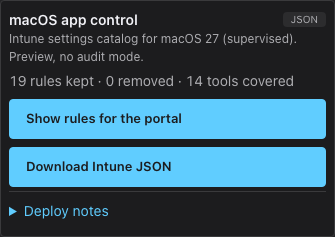
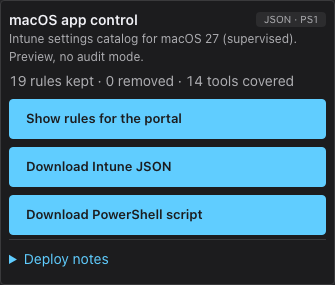
feat: Download PowerShell script on the macOS card
buildPowerShellScript wraps the Intune JSON in a here-string with the
Graph SDK install-when-missing, import, sign-in and POST, so one file
deploys the policy. Guide option 3 and README describe it; the card
screenshot shows the third button. Script parsed with pwsh, 19 rules
embedded.

diff --git a/help-macos.html b/help-macos.html
@@ -65,7 +65,7 @@
         <ul>
           <li><strong>Option 1, Graph Explorer (recommended):</strong> download <strong>Intune JSON</strong> from the macOS card and post it once. The policy appears in Intune with every entry filled in. Nothing to retype, no typos, and a changed list is a new download.</li>
           <li><strong>Option 2, Intune portal:</strong> create the settings catalog profile by hand and type every Team ID and Signing ID from <strong>Show rules for the portal</strong>. Fine for a short list; with the full list it is many entries and one mistake invalidates the whole policy on the Mac.</li>
-          <li><strong>Option 3, PowerShell:</strong> the same Graph request as option 1, sent with the Microsoft Graph PowerShell SDK. A few lines, repeatable, and the natural choice when you roll this out to more than one tenant.</li>
+          <li><strong>Option 3, PowerShell:</strong> download one script with the policy built in and run it. The same Graph request as option 1 without Graph Explorer, and the natural choice when you roll this out to more than one tenant.</li>
         </ul>
         <p>All three routes end in the same policy. Assign and verify it the same way (steps 6 and 7).</p>
       </section>
@@ -73,7 +73,7 @@
         <h2 id="graph-title">3. Option 1: Graph Explorer</h2>
         <ol>
           <li>In the macOS card, select <strong>Download Intune JSON</strong>. The file <code>RMM_Denied_Binaries_Intune.json</code> is the complete policy: name, platform, and one Denied Binaries entry per rule left after your exclusions.
-            <figure><a href="./MacScreens/MacCard.png" target="_blank" rel="noopener noreferrer" aria-label="Open macOS card screenshot"><img src="./MacScreens/MacCard.png" width="335" height="237" loading="lazy" alt="The macOS app control card: rules kept, Show rules for the portal, Download Intune JSON."></a></figure></li>
+            <figure><a href="./MacScreens/MacCard.png" target="_blank" rel="noopener noreferrer" aria-label="Open macOS card screenshot"><img src="./MacScreens/MacCard.png" width="335" height="285" loading="lazy" alt="The macOS app control card: rules kept, Show rules for the portal, Download Intune JSON."></a></figure></li>
           <li>Open <a href="https://developer.microsoft.com/graph/graph-explorer" target="_blank" rel="noopener noreferrer">Graph Explorer <span aria-hidden="true">↗</span></a> and sign in with the account icon at the top right, using your Intune administrator account. Without signing in you are on Microsoft's sample tenant.</li>
           <li>Set the method to <strong>POST</strong>, the version to <strong>beta</strong> and the URL to <code>https://graph.microsoft.com/beta/deviceManagement/configurationPolicies</code>. Graph Explorer now knows which permission this request needs.</li>
           <li>Open the <strong>Modify permissions</strong> tab. It lists <code>DeviceManagementConfiguration.ReadWrite.All</code> for this request. If its status is not consented yet, select <strong>Consent</strong>; in most tenants this is already done.
@@ -108,18 +108,21 @@
       <section id="powershell" class="help-step" aria-labelledby="powershell-title">
         <h2 id="powershell-title">5. Option 3: PowerShell</h2>
         <ol>
-          <li>In the macOS card, select <strong>Download Intune JSON</strong> and note where <code>RMM_Denied_Binaries_Intune.json</code> lands.</li>
-          <li>Open PowerShell in the folder with the downloaded file and run the lines below. They install the Microsoft Graph PowerShell SDK only when it is missing, sign you in with your Intune administrator account, and ask for consent to <code>DeviceManagementConfiguration.ReadWrite.All</code> if it has not been granted yet.</li>
+          <li>In the macOS card, select <strong>Download PowerShell script</strong>. The file <code>RMM_Denied_Binaries_Intune.ps1</code> contains the whole policy, so nothing else needs to be downloaded or kept next to it.</li>
+          <li>Open PowerShell and run the file. It installs the Microsoft Graph PowerShell SDK only when it is missing, signs you in with your Intune administrator account, asks for consent to <code>DeviceManagementConfiguration.ReadWrite.All</code> if it has not been granted yet, posts the policy and prints its id.</li>
         </ol>
+        <p>This is what the script does, apart from the embedded JSON:</p>
         <pre class="kql-code"><code>if (-not (Get-Module -ListAvailable -Name Microsoft.Graph.Authentication)) {
     Install-Module Microsoft.Graph.Authentication -Scope CurrentUser
 }
 Import-Module Microsoft.Graph.Authentication
-Connect-MgGraph -Scopes DeviceManagementConfiguration.ReadWrite.All
-$body = Get-Content .\RMM_Denied_Binaries_Intune.json -Raw
-Invoke-MgGraphRequest -Method POST -Uri "https://graph.microsoft.com/beta/deviceManagement/configurationPolicies" -Body $body -ContentType "application/json"</code></pre>
+Connect-MgGraph -Scopes DeviceManagementConfiguration.ReadWrite.All -NoWelcome
+$body = @'
+    ... the same JSON as Download Intune JSON ...
+'@
+$policy = Invoke-MgGraphRequest -Method POST -Uri "https://graph.microsoft.com/beta/deviceManagement/configurationPolicies" -Body $body -ContentType "application/json"</code></pre>
         <p>The response is the new policy with its <code>id</code>. In Intune the policy appears under <strong>Devices</strong> → <strong>macOS</strong> → <strong>Configuration</strong>; as with option 1, the overview shows an empty <strong>Allowed</strong> and <strong>Edit</strong> shows every entry. It is not assigned yet: continue with step 6.</p>
-        <p>To change the list later, exclude or include tools on the RMM page, download again and run the same lines again. Then assign the new policy and delete the old one, so a Mac never receives two deny lists.</p>
+        <p>To change the list later, exclude or include tools on the RMM page, download the script again and run it again. Then assign the new policy and delete the old one, so a Mac never receives two deny lists.</p>
       </section>
       <section id="assign" class="help-step" aria-labelledby="assign-title">
         <h2 id="assign-title">6. Assign</h2>

diff --git a/app.js b/app.js
@@ -1,7 +1,7 @@
 import { parsePolicy, excludedRuleIds, exportPolicy } from "./policy.js";
 import { loadIocs, filterIocs, exportIocBatches, serializeCsv, iocHeaders } from "./ioc.js";
 import { buildNetworkDiscoveryKql, highlightKql } from "./kql.js";
-import { loadMacProducts, filterMacRules, buildIntunePolicy, reportMissingUrl } from "./macos.js";
+import { loadMacProducts, filterMacRules, buildIntunePolicy, buildPowerShellScript, reportMissingUrl } from "./macos.js";
 
 const byId = id => document.getElementById(id);
 const excluded = new Set();
@@ -381,7 +381,7 @@ function updateMacs() {
   byId("mac-card").hidden = !enabled;
   byId("mac-status").hidden = !enabled || macError || !macData;
   // Without data the buttons would only throw, so they stay disabled until the rules are in.
-  for (const id of ["mac-rules-open", "mac-download-intune"]) byId(id).disabled = !ready;
+  for (const id of ["mac-rules-open", "mac-download-intune", "mac-download-ps"]) byId(id).disabled = !ready;
   for (const entry of tools) {
     const covered = entry.macRules.length > 0;
     entry.macCount.hidden = !enabled || !macData || covered || !excluded.has(entry.tool.name);
@@ -396,7 +396,7 @@ function updateMacs() {
   const known = new Set(policy.tools.map(tool => tool.name));
   const macOnly = macData.tools.filter(tool => !known.has(tool.name)).map(tool => tool.name);
   byId("mac-status").textContent = `${retained.length} rules kept · ${macData.rules.length - retained.length} removed · ${macData.tools.length} tools covered${macOnly.length ? ` · macOS-only: ${macOnly.join(", ")}` : ""}`;
-  for (const id of ["mac-rules-open", "mac-download-intune"]) byId(id).disabled = !retained.length;
+  for (const id of ["mac-rules-open", "mac-download-intune", "mac-download-ps"]) byId(id).disabled = !retained.length;
 }
 
 async function enableMacs() {
@@ -421,14 +421,17 @@ async function enableMacs() {
 }
 
 byId("link-macos")?.addEventListener("change", enableMacs);
-byId("mac-download-intune")?.addEventListener("click", () => {
-  try {
-    saveFile(buildIntunePolicy(macRetained(), macData.version), `RMM_Denied_Binaries_Intune${excluded.size ? "_custom" : ""}.json`, "application/json;charset=utf-8");
-    byId("mac-error").hidden = true;
-  } catch (error) {
-    showMacError(error);
-  }
-});
+const macDownloads = { "mac-download-intune": [buildIntunePolicy, "json", "application/json;charset=utf-8"], "mac-download-ps": [buildPowerShellScript, "ps1", "text/plain;charset=utf-8"] };
+for (const [id, [build, extension, type]] of Object.entries(macDownloads)) {
+  byId(id)?.addEventListener("click", () => {
+    try {
+      saveFile(build(macRetained(), macData.version), `RMM_Denied_Binaries_Intune${excluded.size ? "_custom" : ""}.${extension}`, type);
+      byId("mac-error").hidden = true;
+    } catch (error) {
+      showMacError(error);
+    }
+  });
+}
 
 // A copy button that shows what happened: Copied, or Copy failed when the clipboard is unavailable.
 async function copyWith(button, text, restore) {

diff --git a/index.html b/index.html
@@ -108,13 +108,14 @@
               </div>
             </section>
             <section id="mac-card" class="export-card" aria-labelledby="mac-export-title" hidden>
-              <div class="export-card-heading"><h3 id="mac-export-title">macOS app control</h3><span class="file-badge">JSON</span></div>
+              <div class="export-card-heading"><h3 id="mac-export-title">macOS app control</h3><span class="file-badge">JSON · PS1</span></div>
               <p class="output-description">Intune settings catalog for macOS 27 (supervised). Preview, no audit mode.</p>
               <p id="mac-status" class="export-status" role="status" aria-live="polite" aria-atomic="true" hidden></p>
               <div id="mac-error" class="error" role="alert" hidden></div>
               <button id="mac-rules-open" class="primary" type="button">Show rules for the portal</button>
               <button id="mac-download-intune" class="primary mac-secondary" type="button">Download Intune JSON</button>
-              <details class="export-details"><summary>Deploy notes</summary><p>Separate from the WDAC XML: post the JSON once in Graph Explorer, or type the rules into the settings catalog. Only tools with a verified Mac code signature are covered; excluded tools without one are marked. Requires Automated Device Enrollment.</p><p><a href="./help-macos.html">macOS guide</a> · <a id="mac-report-missing" href="https://github.com/Lewis-Barry/RMM-Blocker/issues/new" target="_blank" rel="noopener noreferrer">Report a missing tool <span aria-hidden="true">↗</span></a></p></details>
+              <button id="mac-download-ps" class="primary mac-secondary" type="button">Download PowerShell script</button>
+              <details class="export-details"><summary>Deploy notes</summary><p>Separate from the WDAC XML: run the PowerShell script, post the JSON once in Graph Explorer, or type the rules into the settings catalog. Only tools with a verified Mac code signature are covered; excluded tools without one are marked. Requires Automated Device Enrollment.</p><p><a href="./help-macos.html">macOS guide</a> · <a id="mac-report-missing" href="https://github.com/Lewis-Barry/RMM-Blocker/issues/new" target="_blank" rel="noopener noreferrer">Report a missing tool <span aria-hidden="true">↗</span></a></p></details>
             </section>
             <button id="kql-open" class="kql-open" type="button">See KQL for network discovery</button>
           </div>

diff --git a/tests.js b/tests.js
@@ -1,7 +1,7 @@
 import { parsePolicy, exportPolicy, excludedRuleIds } from "./policy.js";
 import { loadIocs, combineIocs, parseCsv, serializeCsv, iocHeaders, filterIocs, exportIocBatches } from "./ioc.js";
 import { buildNetworkDiscoveryKql, highlightKql } from "./kql.js";
-import { parseMacProducts, filterMacRules, buildIntunePolicy, reportMissingUrl } from "./macos.js";
+import { parseMacProducts, filterMacRules, buildIntunePolicy, buildPowerShellScript, reportMissingUrl } from "./macos.js";
 
 const ns = "urn:schemas-microsoft-com:sipolicy";
 const output = document.getElementById("test-output");
@@ -768,6 +768,18 @@ async function testMacBuilder(policy) {
       assert(JSON.stringify(item.children.map(child => child.settingDefinitionId)) === JSON.stringify(expected), "Child definitions differ");
     }
     expectError(() => buildIntunePolicy([], data.version), "deny nothing");
+  });
+  test("PowerShell script embeds the Intune body and posts it", () => {
+    const script = buildPowerShellScript(data.rules, data.version);
+    const lines = script.split("\r\n");
+    const start = lines.indexOf("$body = @'");
+    const end = lines.indexOf("'@");
+    assert(start > 0 && end > start, "Here-string delimiters missing");
+    assert(lines.slice(start + 1, end).join("\r\n") === buildIntunePolicy(data.rules, data.version), "Embedded body differs from the JSON download");
+    assert(lines.some(line => line.startsWith("Install-Module Microsoft.Graph.Authentication") || line.includes("Install-Module Microsoft.Graph.Authentication")), "No conditional install");
+    assert(lines.includes("Import-Module Microsoft.Graph.Authentication"), "No import");
+    assert(lines.some(line => line.startsWith("$policy = Invoke-MgGraphRequest -Method POST") && line.includes("/beta/deviceManagement/configurationPolicies")), "No POST");
+    expectError(() => buildPowerShellScript([], data.version), "deny nothing");
   });
   test("Missing-data report link is a prefilled GitHub issue", () => {
     const url = new URL(reportMissingUrl("https://github.com/example/repo"));

diff --git a/macos.js b/macos.js
@@ -141,6 +141,27 @@ export function buildIntunePolicy(rules, version) {
   }, null, 2);
 }
 
+// A self-contained PowerShell script: Graph SDK install when missing, sign-in, and the policy body inline.
+export function buildPowerShellScript(rules, version) {
+  const body = buildIntunePolicy(rules, version);
+  return [
+    "#Requires -Version 5.1",
+    `# RMM Guard: creates the "Block RMM tools (macOS)" settings catalog policy in Intune. Deny list v${version}, ${rules.length} rules.`,
+    "# Run with an Intune administrator account. The policy is created unassigned; assign it in Intune afterwards.",
+    "if (-not (Get-Module -ListAvailable -Name Microsoft.Graph.Authentication)) {",
+    "    Install-Module Microsoft.Graph.Authentication -Scope CurrentUser",
+    "}",
+    "Import-Module Microsoft.Graph.Authentication",
+    "Connect-MgGraph -Scopes DeviceManagementConfiguration.ReadWrite.All -NoWelcome",
+    "$body = @'",
+    body,
+    "'@",
+    '$policy = Invoke-MgGraphRequest -Method POST -Uri "https://graph.microsoft.com/beta/deviceManagement/configurationPolicies" -Body $body -ContentType "application/json"',
+    "Write-Host \"Created policy '$($policy.name)' with id $($policy.id). Assign it under Devices > macOS > Configuration.\"",
+    "",
+  ].join("\r\n");
+}
+
 // Pre-filled issue so a visitor can send the codesign output for a tool that has no macOS rules yet.
 export function reportMissingUrl(repository) {
   const title = "macOS rules for <tool name>";

diff --git a/AGENTS.md b/AGENTS.md
@@ -2,5 +2,5 @@
 
 - Don't run `run-tests.mjs` or `tests.html` for simple front-end changes like copy, markup or styles. Run them only when asked, or when logic changes in `app.js`, `policy.js`, `ioc.js`, `kql.js`, `build.mjs` or `products.json`.
 - Whenever adding, changing, or removing IOCs, regenerate the Defender CSVs with `node build.mjs`, verify the generated network discovery KQL includes the updated indicators, and commit all affected outputs. The KQL is built from the bundled IOC CSVs in `kql.js`; update its generation or tests if needed to keep every current IOC represented.
-- `macos.js` (used by `app.js` for the **macOS** platform, on by default next to Windows) builds the macOS deny list from the `macos` blocks in `products.json`. Every rule needs a `teamId`; Team IDs that also sign everyday software (Microsoft, Google, Adobe, 1Password, Cloudflare) need a `signingId` too. `validateMacos` in `macos.js` is the single validator and `node build.mjs --check` runs it. Only add a rule after reading the signature from the vendor's real installer with `codesign -dvvv`, and record the installer URL in `source`.
+- `macos.js` (used by `app.js` for the **macOS** platform, on by default next to Windows) builds the macOS deny list from the `macos` blocks in `products.json`, as an Intune JSON body and as a PowerShell script that embeds it. Every rule needs a `teamId`; Team IDs that also sign everyday software (Microsoft, Google, Adobe, 1Password, Cloudflare) need a `signingId` too. `validateMacos` in `macos.js` is the single validator and `node build.mjs --check` runs it. Only add a rule after reading the signature from the vendor's real installer with `codesign -dvvv`, and record the installer URL in `source`.
 - `scripts/sync-macos.mjs` (macOS only) adds and re-verifies Team ID rules from Homebrew installers; its pure parts are tested in `scripts/sync-macos.test.mjs`. A product rejected for macOS goes in `scripts/macos-ignore.json`. Run `node --test scripts/` after changing any script.

diff --git a/README.md b/README.md
@@ -38,6 +38,8 @@ or PowerShell), all built in the browser from the `macos` blocks in `products.js
 - **Download Intune JSON**: a settings catalog policy body for `POST /beta/deviceManagement/configurationPolicies`
   (the portal cannot import settings catalog JSON, so the guide uses Graph Explorer). Definition ids: `app_app` →
   `app_allowed` → `app_allowed_deniedbinaries` → `..._item_teamid` / `..._item_signingid`.
+- **Download PowerShell script**: the same body embedded in a `.ps1` that installs the Graph PowerShell SDK when
+  missing, signs in and posts it, so one file does the whole deployment.
 
 Only tools whose signature was read from the vendor's real installer are listed. To add one:
 
